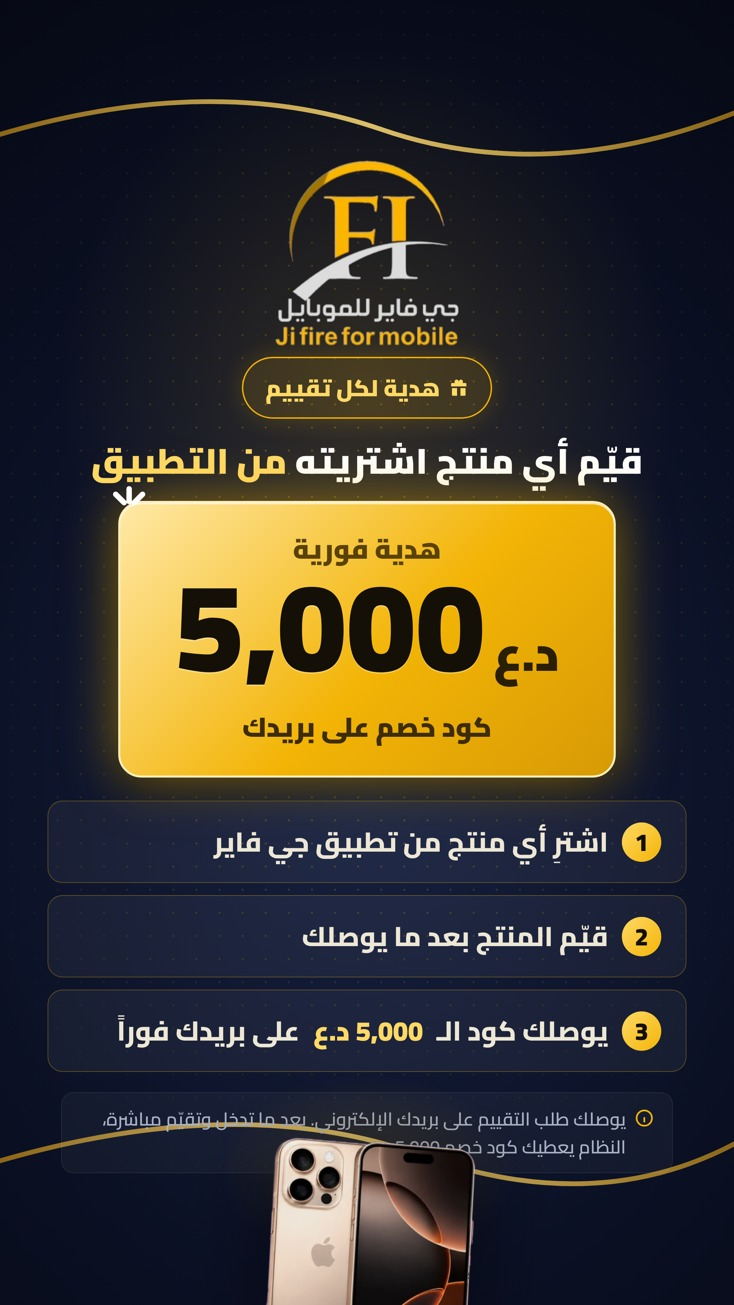
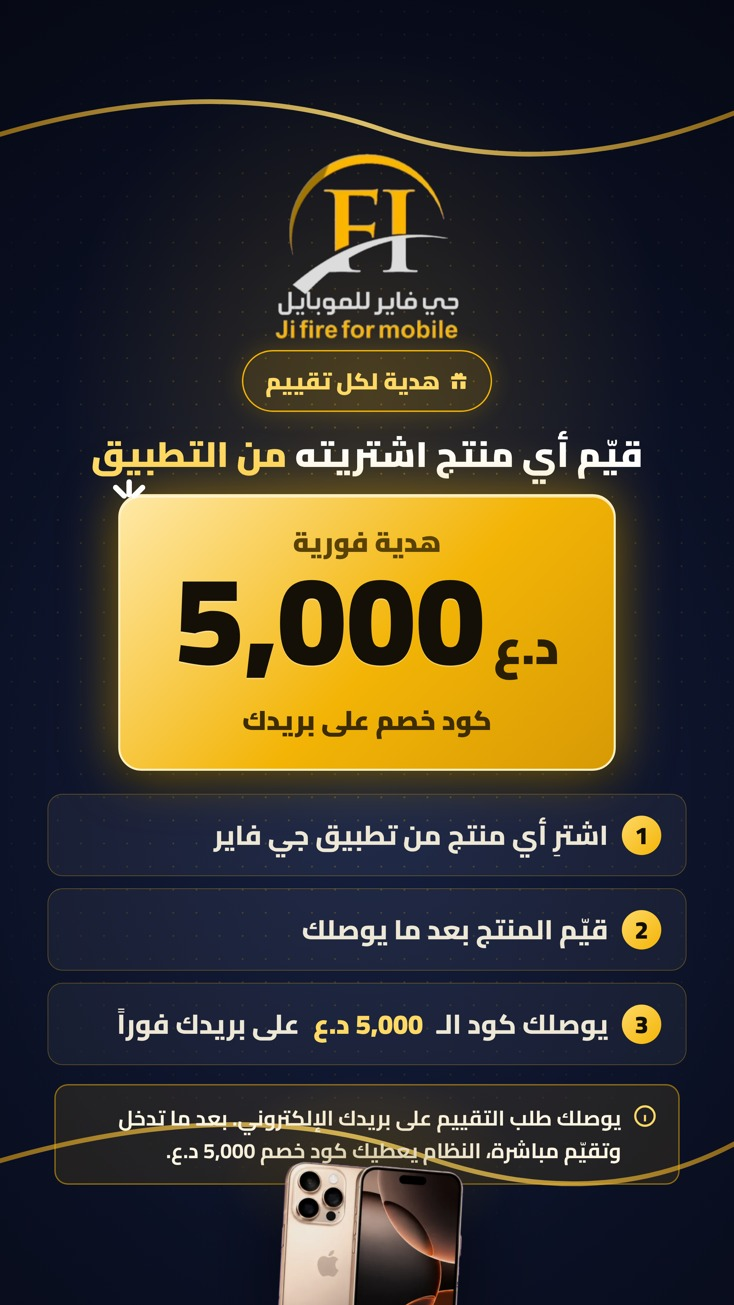
Review-reward story: make the bottom note clearly legible (gold box, bright text)
Claude-Session: https://claude.ai/code/session_0144PHt837SWPxcPTGPkzuRV

Changed region(s): [[0.0599, 0.092, 0.9292, 1.0]]

diff --git a/design/banner/story2.html b/design/banner/story2.html
@@ -9,7 +9,7 @@ html,body{background:#0a0f22}
   radial-gradient(100% 70% at 50% 60%,#16203f,#0a0f22 62%,#060914)}
 .dots{position:absolute;inset:0;opacity:.4;background-image:radial-gradient(#F3B406 1px,transparent 1.8px);background-size:34px 34px;-webkit-mask:radial-gradient(85% 70% at 50% 45%,#000,transparent 78%)}
 .sw{position:absolute;inset:0;pointer-events:none}
-.safe{position:absolute;left:0;right:0;top:230px;bottom:300px;display:flex;flex-direction:column;align-items:center;text-align:center;padding:0 70px}
+.safe{position:absolute;left:0;right:0;top:220px;bottom:250px;display:flex;flex-direction:column;align-items:center;text-align:center;padding:0 70px}
 .logo{width:270px;margin-top:6px}
 .limited{margin-top:16px;display:inline-flex;align-items:center;gap:12px;padding:12px 32px;border-radius:999px;background:rgba(243,180,6,.12);border:2px solid #F3B406;color:#FFD966;font-weight:900;font-size:34px;box-shadow:0 0 36px rgba(243,180,6,.2)}
 .head{margin-top:30px;font-size:52px;font-weight:900;color:#fff;line-height:1.25}
@@ -27,9 +27,9 @@ html,body{background:#0a0f22}
 .chip .num{flex-shrink:0;width:58px;height:58px;border-radius:50%;background:linear-gradient(135deg,#FFD966,#F3B406);color:#141007;font-weight:900;font-size:36px;display:flex;align-items:center;justify-content:center}
 .chip svg{width:40px;height:40px;color:#F3B406;flex-shrink:0}
 .chip b{color:#FFD966}
-.note{margin-top:30px;display:flex;gap:12px;align-items:flex-start;max-width:900px;padding:18px 26px;border-radius:18px;background:rgba(255,255,255,.04);border:1px solid rgba(255,255,255,.08);font-size:27px;font-weight:600;color:#A9B2C6;line-height:1.5;text-align:right}
-.note svg{width:30px;height:30px;color:#F3B406;flex-shrink:0;margin-top:4px}
-.phone{position:absolute;bottom:-20px;left:50%;transform:translateX(-50%) rotate(3deg);width:360px;filter:drop-shadow(0 30px 60px rgba(0,0,0,.6));z-index:2}
+.note{margin-top:28px;display:flex;gap:16px;align-items:flex-start;max-width:920px;padding:24px 30px;border-radius:20px;background:rgba(243,180,6,.1);border:2px solid rgba(243,180,6,.5);font-size:31px;font-weight:700;color:#FBF4E2;line-height:1.55;text-align:right}
+.note svg{width:38px;height:38px;color:#FFD966;flex-shrink:0;margin-top:2px}
+.phone{position:absolute;bottom:-26px;left:50%;transform:translateX(-50%) rotate(3deg);width:320px;filter:drop-shadow(0 30px 60px rgba(0,0,0,.6));z-index:2}
 .pglow{position:absolute;bottom:50px;left:50%;transform:translateX(-50%);width:480px;height:300px;border-radius:50%;background:radial-gradient(ellipse,rgba(243,180,6,.3),transparent 65%);opacity:.5;z-index:1}
 </style></head><body>
 <div class="st">
